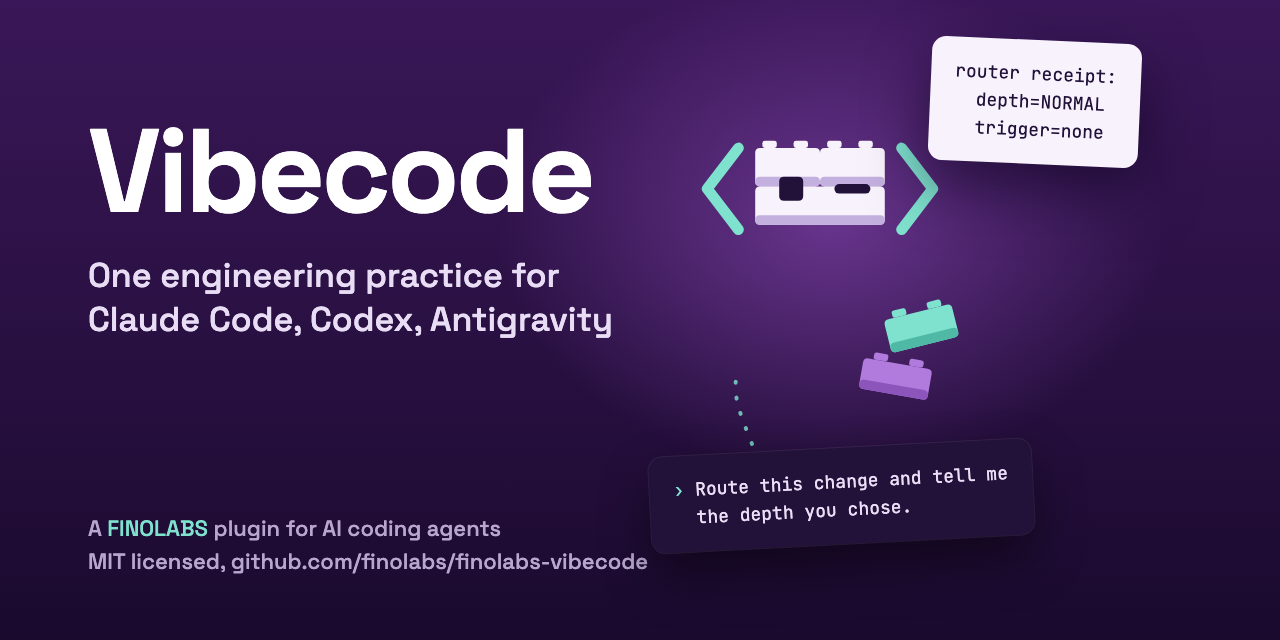
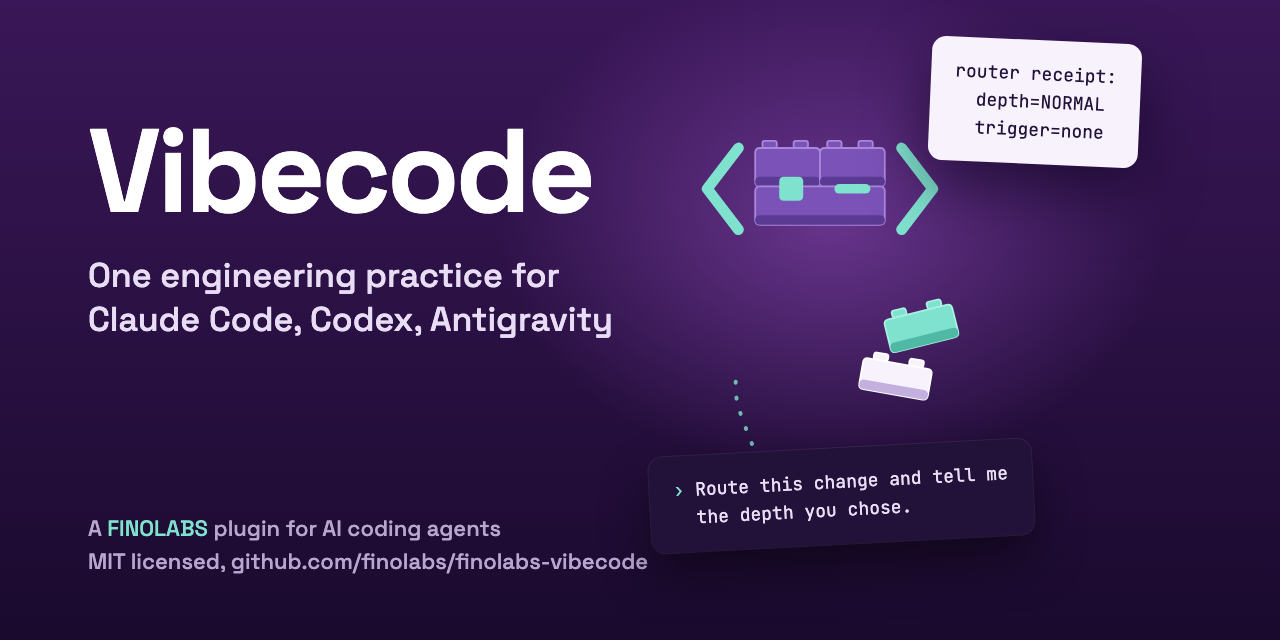
Keep the robot's eyes mint in the social preview
The head bricks are now a mid violet with a light rim, darker than the
mint of the icon, so the eyes keep the icon's colour and still stand out.
The loose bricks are mint and white.

Changed region(s): [[0.5625, 0.2188, 0.7188, 0.375], [0.6562, 0.5312, 0.75, 0.625], [0.6875, 0.4688, 0.75, 0.5]]

diff --git a/assets/NOTICE.md b/assets/NOTICE.md
@@ -17,4 +17,4 @@ Editable sources are icon.svg and icon-dark.svg. The two PNG files are transpare
 
 ## Social preview
 
-`.github/social-preview.png` (1280×640) is rendered from `.github/social-preview.json` with the FINOLABS social-preview template and `social-mark-dark.svg`: the robot face built from three white bricks between the icon's brackets, with two loose bricks beside it. The bricks are original flat shapes drawn for this project; no third-party artwork, logo or wordmark is used. The renderer drops `width` and `height` attributes, so the file draws every shape as a path. GitHub has no API for it: upload it under the repository's Settings, General, Social preview.
+`.github/social-preview.png` (1280×640) is rendered from `.github/social-preview.json` with the FINOLABS social-preview template and `social-mark-dark.svg`: the robot face built from three violet bricks with the icon's mint eyes between its brackets, with two loose bricks beside it. The bricks are original flat shapes drawn for this project; no third-party artwork, logo or wordmark is used. The renderer drops `width` and `height` attributes, so the file draws every shape as a path. GitHub has no API for it: upload it under the repository's Settings, General, Social preview.
